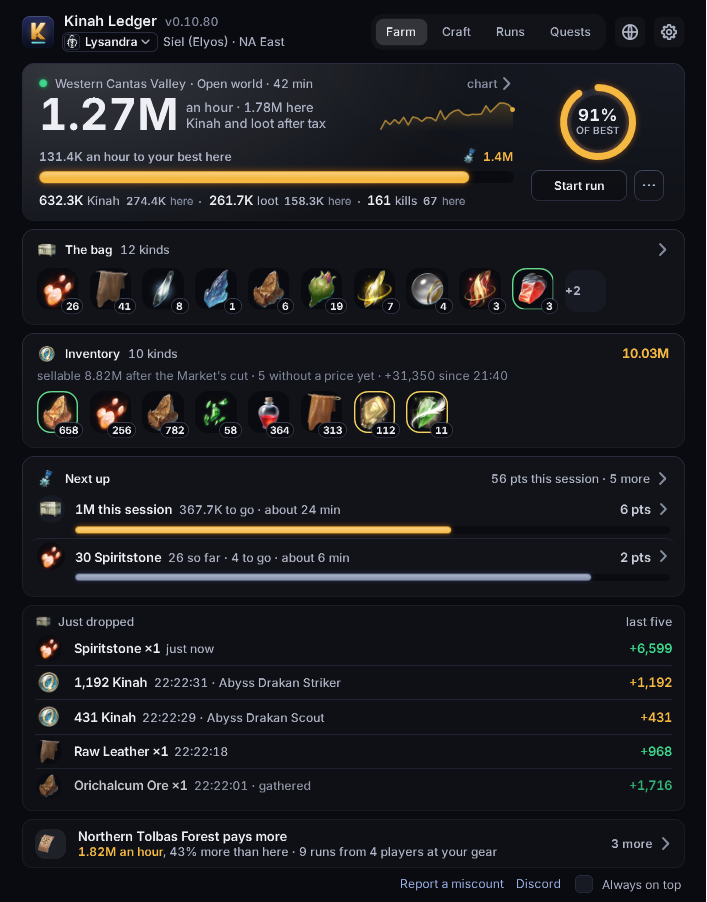
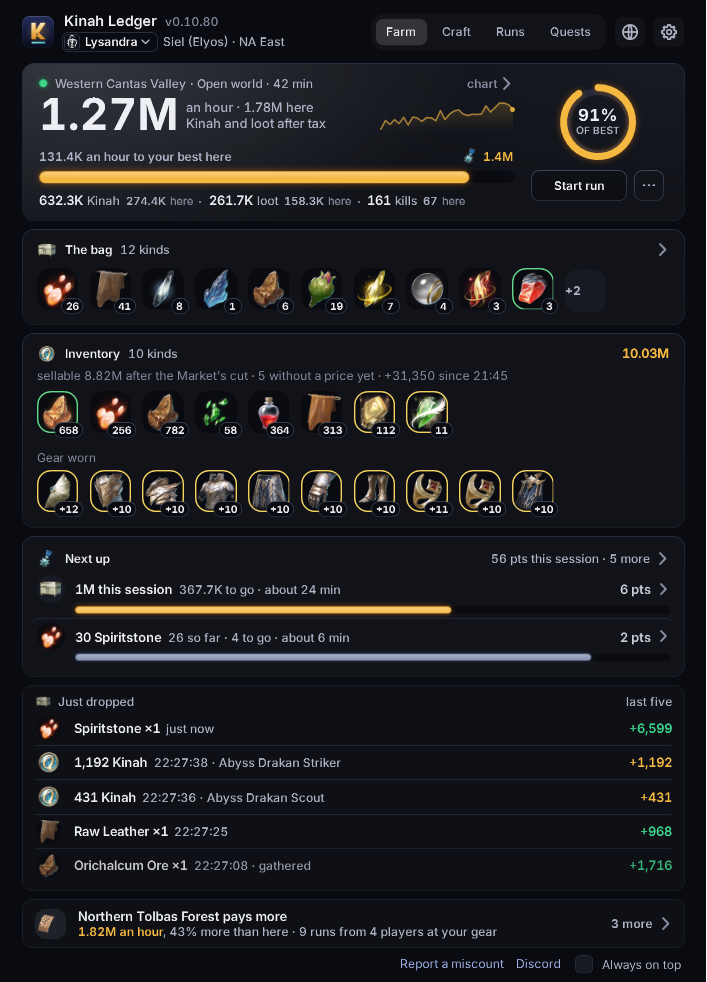
Tracker: the gear worn with its enhancement level on the Inventory card
The decoder's level for each worn piece (confirmed against Steven's
screenshot of 2026-11-13: 19 of 19 levels) is carried in BagRecord, kept by
BagBook from each snapshot, and shown as a "Gear worn" row of slots with
their +level. A level over +15 isn't said (the game showed the weapon's 18 as
a badge of its own). packet-test: the recordings' 20 worn pieces, level by
slot. Release notes.

diff --git a/tracker/KinahLedger.Tracker/Ui/MainWindow.xaml b/tracker/KinahLedger.Tracker/Ui/MainWindow.xaml
@@ -614,6 +614,8 @@
           </Grid>
           <TextBlock x:Name="InvSub" FontSize="12" Foreground="{DynamicResource Faint}" Margin="0,4,0,0" TextWrapping="Wrap"/>
           <WrapPanel x:Name="InvHost" Margin="0,8,0,-6"/>
+          <TextBlock x:Name="InvWornHead" Text="Gear worn" FontSize="12" Foreground="{DynamicResource Faint}" Margin="0,12,0,0" Visibility="Collapsed"/>
+          <WrapPanel x:Name="InvWornHost" Margin="0,6,0,-6" Visibility="Collapsed"/>
         </StackPanel>
       </Border>
 

diff --git a/tracker/KinahLedger.Tracker/Ui/MainWindow.Inventory.cs b/tracker/KinahLedger.Tracker/Ui/MainWindow.Inventory.cs
@@ -28,6 +28,7 @@ public partial class MainWindow
         {
             if (!Changed("inventory", "unknown|" + Skins.Current)) return;
             InvNote.Text = ""; InvTotal.Text = ""; InvTotal.ToolTip = null; InvHost.Children.Clear(); InvHost.Visibility = Visibility.Collapsed;
+            InvWornHost.Children.Clear(); InvWornHost.Visibility = InvWornHead.Visibility = Visibility.Collapsed;
             InvSub.Text = "Known at your next teleport or Abyss trip, when the game sends your whole inventory.";
             return;
         }
@@ -35,7 +36,8 @@ public partial class MainWindow
         var w = BagValue.Of(now, first, _items, n => PriceBook.Price(n), PriceBook.SellerKeeps);
         long? kinah = bag.Money(CurrencyKind.Kinah);
         var top = w.Lines.Take(8).ToList();
-        var sig = $"{w.Total}|{w.Sellable}|{w.Unpriced}|{w.Kinds}|{w.Change}|{kinah}|{string.Join(";", top.Select(l => $"{l.Id}:{l.Count}:{l.Value}"))}|{Skins.Current}";
+        var worn = bag.WornGear() ?? new();
+        var sig = $"{w.Total}|{w.Sellable}|{w.Unpriced}|{w.Kinds}|{w.Change}|{kinah}|{string.Join(";", top.Select(l => $"{l.Id}:{l.Count}:{l.Value}"))}|{string.Join(";", worn.Select(g => $"{g.ItemId}:{g.Level}"))}|{Skins.Current}";
         if (!Changed("inventory", sig)) return;
         InvTotal.Text = w.Total > 0 ? Fk(w.Total) : "";
         InvNote.Text = $"{w.Kinds:N0} kind{(w.Kinds == 1 ? "" : "s")}";
@@ -58,7 +60,23 @@ public partial class MainWindow
                 + (first != null && l.Change != 0 ? $"\n{(l.Change > 0 ? "+" : "−")}{Math.Abs(l.Change):N0} since {bag.FirstAt!.Value.ToLocalTime():HH:mm}" : "");
             InvHost.Children.Add(slot);
         }
+        // the gear worn with its enhancement level, as the game sent it (confirmed for +1 to +12 against the game's window on
+        // 2026-11-13; a level over +15, the weapon's 18 there, showed as a badge of the game's own and stays unsaid)
+        InvWornHost.Children.Clear();
+        InvWornHost.Visibility = InvWornHead.Visibility = worn.Count > 0 ? Visibility.Visible : Visibility.Collapsed;
+        foreach (var g in worn)
+        {
+            var info = _items.Get(g.ItemId);
+            string name = info?.Name ?? _items.NameOf(g.ItemId);
+            string level = g.Level is >= 1 and <= MaxShownLevel ? $"+{g.Level}" : "";
+            var slot = QSlot(QItemIcon(name, g.ItemId, 42, round: false, grade: info?.Grade ?? ""), level);
+            slot.ToolTip = level.Length > 0 ? $"{name} {level}" : name;
+            InvWornHost.Children.Add(slot);
+        }
     }
+
+    /// <summary>The highest enhancement level said on a worn piece (the game showed the weapon's 18 as a badge of its own, not "+18").</summary>
+    const int MaxShownLevel = 15;
 
     /// <summary>The render sample's inventory: a snapshot of a gatherer's bag, then two gathers and a sale since.</summary>
     void DemoInventory(string how)
@@ -73,6 +91,9 @@ public partial class MainWindow
         rows.Add(new(t, BagRecord.Stack, 0, 0, stack++, 4_922_940, 1, 0, CurrencyKind.Kinah));
         S("Orichalcum Ore", 773); S("Fine Orichalcum Ore", 658); S("Odyle", 52); S("Radiant Odyle", 11); S("Amplify Stone (Unique)", 112, 1);
         S("Superior Manastone", 5); S("Lesser Manastone", 5); S("Spiritstone", 256); S("Life Potion (Bound)", 364, 1); S("Strong Leather", 313);
+        void G(string name, int slot, int level) { if (_items.IdOf(name) is long id and > 0) rows.Add(new(t, BagRecord.Stack, 0, id, stack++, 1, BagBook.Worn, slot, null, level)); }
+        G("Nuakum Guard", 2, 12); G("Nuakum Helm", 3, 10); G("Nuakum Pauldrons", 4, 10); G("Nuakum Breastplate", 5, 10); G("Nuakum Greaves", 6, 10);
+        G("Nuakum Gloves", 7, 10); G("Nuakum Boots", 8, 10); G("Enraged Kromede Ring", 13, 11); G("Enraged Kromede Ring", 14, 10); G("Nuakum Cloak", 19, 10);
         rows.Add(new(t, BagRecord.End, rows.Count - 1, 0, 0, 0, 0, 0, null));
         foreach (var r in rows) _demoBag.Take(r);
         if (stackOf.TryGetValue("Orichalcum Ore", out var so)) _demoBag.Take(new ItemChange(t.AddMinutes(30), _items.IdOf("Orichalcum Ore"), ItemOp.Changed, so, 9, 782, false, 1, 1, false));

diff --git a/tracker/KinahLedger.Tracker/Packets/PacketTests.cs b/tracker/KinahLedger.Tracker/Packets/PacketTests.cs
@@ -428,7 +428,7 @@ public static class PacketTests
                 new BagRecord(t0, BagRecord.Stack, 0, Id("Orichalcum Ore"), 11, 31, 1, 40, null),
                 new BagRecord(t0, BagRecord.Stack, 0, Id("Orichalcum Ore"), 12, 742, 18, 79, null),
                 new BagRecord(t0, BagRecord.Stack, 0, Id("Life Potion (Bound)"), 13, 364, 1, 2, null),
-                new BagRecord(t0, BagRecord.Stack, 0, Id("Orichalcum Guard"), 14, 1, BagBook.Worn, 2, null),
+                new BagRecord(t0, BagRecord.Stack, 0, Id("Orichalcum Guard"), 14, 1, BagBook.Worn, 2, null, 12),
                 new BagRecord(t0, BagRecord.End, 5, 0, 0, 0, 0, 0, null));
             var tot = bag.Totals()!;
             r.ItemsForTest(new ItemChange(t0.AddSeconds(30), Id("Orichalcum Ore"), ItemOp.Changed, 11, 1, 32, false, 1, 1, false),
@@ -437,6 +437,7 @@ public static class PacketTests
             r.AmountForTest(CurrencyKind.Kinah, 4_727_973, t0.AddSeconds(29)); r.AmountForTest(CurrencyKind.Kinah, 4_728_099, t0.AddSeconds(30));
             var after = bag.Totals()!;
             Check(unknownFirst && tot.GetValueOrDefault(Id("Orichalcum Ore")) == 773 && !tot.ContainsKey(Id("Orichalcum Guard")) && bag.Totals(worn: true)!.ContainsKey(Id("Orichalcum Guard"))
+                && bag.WornGear() is [{ Slot: 2, Level: 12 }]
                 && after.GetValueOrDefault(Id("Orichalcum Ore")) == 774 && after.GetValueOrDefault(Id("Odyle")) == 1 && !after.ContainsKey(Id("Life Potion (Bound)")) && bag.Money(CurrencyKind.Kinah) == 4_728_099 && bag.LastRows == (5, 5),
                 $"the inventory: unknown before its snapshot, then Orichalcum Ore {tot.GetValueOrDefault(Id("Orichalcum Ore"))} (two stacks), the gear worn apart; after the changes {after.GetValueOrDefault(Id("Orichalcum Ore"))} ore, {after.GetValueOrDefault(Id("Odyle"))} Odyle, the potions gone, Kinah {bag.Money(CurrencyKind.Kinah):N0}");
             // its worth: tradable at the price, bound at its tradable twin's, unpriced counted; the change since the first snapshot
@@ -471,6 +472,13 @@ public static class PacketTests
                     var x = a.Totals()!; var y = b2.FirstTotals;   // the first connection at its end; the second at its snapshot (gear worn apart in both)
                     foreach (var id in x.Keys.Union(y.Keys)) { if (x.GetValueOrDefault(id) == y.GetValueOrDefault(id)) agree++; else differ++; }
                     bool kinahSame = a.Money(CurrencyKind.Kinah) == 4_922_940;   // the Kinah the 20:01:47 snapshot holds
+                    // the gear worn and its levels, against Steven's screenshot of 22:20 (the same gear): +12 the guard, +11 a ring,
+                    // +1 and +2 the two teal pieces, +10 the other fifteen, and the weapon's 18 (a badge in the game)
+                    var worn = b2.WornGear()!.ToDictionary(g => g.Slot, g => g.Level);
+                    var want = new Dictionary<int, int> { [1] = 18, [2] = 12, [13] = 11, [23] = 1, [24] = 2 };
+                    foreach (var sl in new[] { 3, 4, 5, 6, 7, 8, 10, 11, 12, 14, 15, 16, 17, 19, 22 }) want[sl] = 10;
+                    Check(worn.Count == 20 && want.All(kv => worn.GetValueOrDefault(kv.Key) == kv.Value),
+                        $"the gear worn in the recordings, by slot: {string.Join(" ", worn.OrderBy(kv => kv.Key).Select(kv => $"{kv.Key}:+{kv.Value}"))} (Steven's screenshot: 19 of 19 levels)");
                     Check(differ == 0 && agree > 200 && kinahSame && a.LastRows.Said == a.LastRows.Read && b2.LastRows.Said == b2.LastRows.Read,
                         $"the inventory in the recordings: the 18:49 snapshot ({a.LastRows.Read} of {a.LastRows.Said} stacks) kept up with every change equals the 20:01 one ({b2.LastRows.Read} of {b2.LastRows.Said}) for {agree} items, {differ} differ; Kinah at the first connection's end {a.Money(CurrencyKind.Kinah):N0} (the second snapshot says 4,922,940)");
                 }

diff --git a/tracker/KinahLedger.Tracker/Packets/BagBook.cs b/tracker/KinahLedger.Tracker/Packets/BagBook.cs
@@ -15,6 +15,7 @@ public sealed class BagBook
     readonly object _gate = new();
     readonly Dictionary<long, (long ItemId, long Amount, int Container)> _stacks = new();
     readonly Dictionary<CurrencyKind, long> _money = new();
+    readonly List<(long ItemId, int Slot, int Level)> _worn = new();
     List<BagRecord>? _filling;
     int _said;
 
@@ -29,7 +30,7 @@ public sealed class BagBook
     public (int Said, int Read) LastRows { get; private set; }
 
     /// <summary>A new connection: the inventory is unknown until its snapshot comes.</summary>
-    public void Unknown() { lock (_gate) { KnownAt = null; _stacks.Clear(); _money.Clear(); _filling = null; } }
+    public void Unknown() { lock (_gate) { KnownAt = null; _stacks.Clear(); _money.Clear(); _worn.Clear(); _filling = null; } }
 
     /// <summary>One record of a snapshot: its start, a stack, its end (which makes it the inventory).</summary>
     public void Take(BagRecord r)
@@ -41,9 +42,11 @@ public sealed class BagBook
                 case BagRecord.Begin: _filling = new List<BagRecord>(); _said = r.Count; break;
                 case BagRecord.Stack: _filling?.Add(r); break;
                 case BagRecord.End when _filling != null:
-                    _stacks.Clear(); _money.Clear();
+                    _stacks.Clear(); _money.Clear(); _worn.Clear();
                     foreach (var s in _filling)
                     {
+                        // the gear worn, with its enhancement level (slots past 40 are the game's other worn things, no gear)
+                        if (s.Container == Worn && s.Slot is > 0 and < 40) _worn.Add((s.ItemId, s.Slot, s.Level));
                         if (s.Currency is CurrencyKind k) _money[k] = _money.GetValueOrDefault(k) + s.Amount;
                         else _stacks[s.StackId] = (s.ItemId, s.Amount, s.Container);
                     }
@@ -87,6 +90,9 @@ public sealed class BagBook
 
     /// <summary>The items held at the first snapshot since the tracker started (gear worn left out); empty before one.</summary>
     public Dictionary<long, long> FirstTotals { get { lock (_gate) return new Dictionary<long, long>(_first); } }
+
+    /// <summary>The gear worn at the last snapshot, by slot, with its enhancement level; null when the inventory is unknown.</summary>
+    public List<(long ItemId, int Slot, int Level)>? WornGear() { lock (_gate) return KnownAt == null ? null : _worn.OrderBy(w => w.Slot).ToList(); }
 
     /// <summary>A currency's amount now, null when unknown.</summary>
     public long? Money(CurrencyKind k) { lock (_gate) return KnownAt != null && _money.TryGetValue(k, out var v) ? v : null; }

diff --git a/tracker/KinahLedger.Tracker/Packets/Decoder.cs b/tracker/KinahLedger.Tracker/Packets/Decoder.cs
@@ -33,9 +33,10 @@ public sealed record GatherResult(DateTime At, long NodeId, long NodeKind, Gathe
 /// <summary>
 /// One record of the inventory's snapshot (the game sends the whole inventory at the start of each connection to its
 /// server): Begin (Count: the stacks the game says it holds), Stack (an item's stack: its id on this connection, the amount,
-/// the container; Currency when it is Kinah, bound Kinah or Abyss Points), End (Count: the stacks read).
+/// the container; Currency when it is Kinah, bound Kinah or Abyss Points; Level a piece of gear's enhancement level, 0 for
+/// anything else), End (Count: the stacks read).
 /// </summary>
-public sealed record BagRecord(DateTime At, int Kind, int Count, long ItemId, long StackId, long Amount, int Container, int Slot, CurrencyKind? Currency)
+public sealed record BagRecord(DateTime At, int Kind, int Count, long ItemId, long StackId, long Amount, int Container, int Slot, CurrencyKind? Currency, int Level = 0)
 {
     public const int Begin = 0, Stack = 1, End = 2;
 }
@@ -165,8 +166,8 @@ public sealed unsafe class NativeDecoder : IGameDecoder
         KlBagRow r;
         try { if (NextBagN(_h, &r) != 1 || r.Kind is < 0 or > 2) return null; }
         catch (EntryPointNotFoundException) { _noBag = true; return null; }
-        // the gear byte (r.Gear) is left out: what it means isn't confirmed
-        return new BagRecord(new DateTime(r.AtUtcTicks, DateTimeKind.Utc), r.Kind, r.Count, r.ItemId, r.StackId, r.Amount, r.Container, r.Slot, r.Currency is >= 0 and <= 2 ? (CurrencyKind)r.Currency : null);
+        // the gear's enhancement level (confirmed against the game's window on 2026-11-13 for +1 to +12)
+        return new BagRecord(new DateTime(r.AtUtcTicks, DateTimeKind.Utc), r.Kind, r.Count, r.ItemId, r.StackId, r.Amount, r.Container, r.Slot, r.Currency is >= 0 and <= 2 ? (CurrencyKind)r.Currency : null, r.Gear is > 0 and < 100 ? r.Gear : 0);
     }
     // a dll that says 7 or more but was built without the gathering export (the interface numbers are shared between
     // branches): asked once, then never again, and gathering stays the screen's

diff --git a/release-notes/v0.10.81.md b/release-notes/v0.10.81.md
@@ -2,7 +2,8 @@ Kinah Ledger tracker 0.10.81: what your inventory is worth.
 
 - **An Inventory card on the Farming page.** It shows what everything your character holds is worth at today's Market prices: the total, the part you could sell after the Market's cut, and how many items have no price yet. Your most valuable items are shown as slots.
 - **How much it changed since you started.** The card says how your inventory's worth moved since the tracker first saw it, item by item on hover.
-- **Exact, from the game itself.** The game sends your whole inventory when you log in or change server (a teleport to another server, entering or leaving the Abyss), and every change after that. Until it does, the card says so. The gear you wear is left out. Bound items count at the price of their tradable version and are never counted as sellable.
+- **Exact, from the game itself.** The game sends your whole inventory when you log in or change server (a teleport to another server, entering or leaving the Abyss), and every change after that. Until it does, the card says so. The gear you wear is left out of the worth. Bound items count at the price of their tradable version and are never counted as sellable.
+- **Your gear and its enhancement levels.** The card shows the gear you wear with its +level, as the game sent it.
 - **Pickups of items you already carried count from the first one.** The first pickup of an item after you log in used to wait for the chat line. Now the tracker already knows how many you had.
 - **Reward lists with gear in them count in full.** A reward that came with gear used to lose the items listed after the first piece of gear.
 
